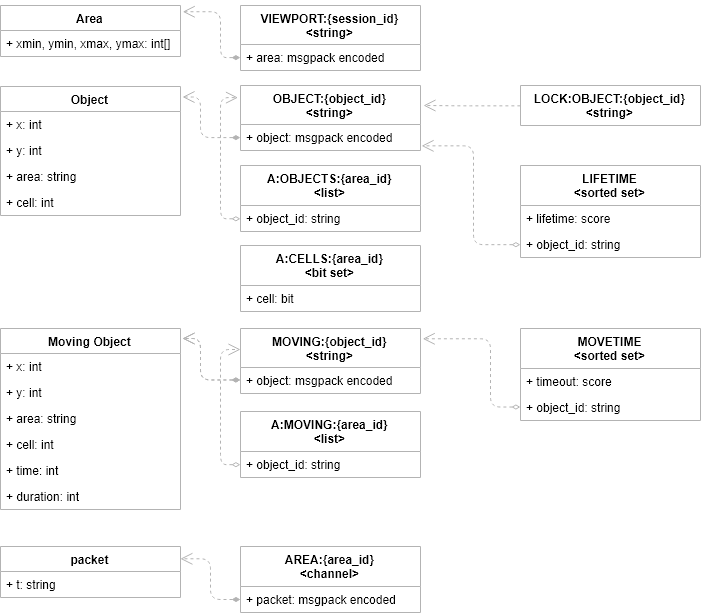
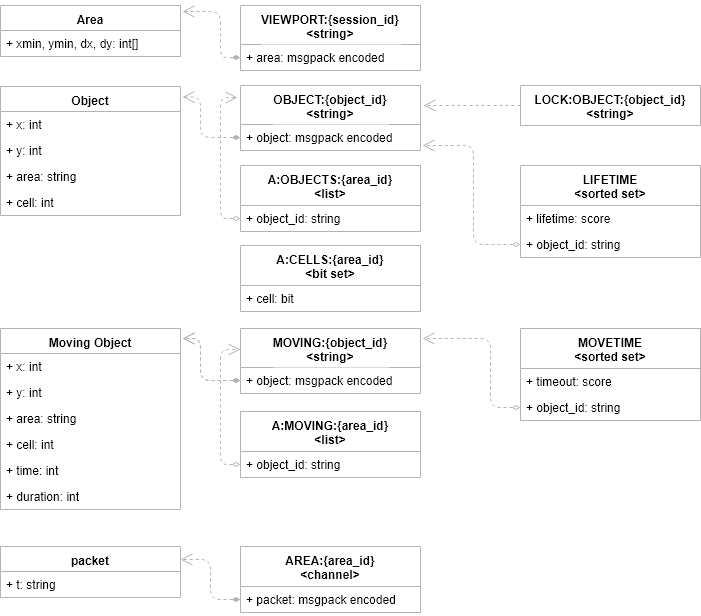
Updated redis data structure to use area width and height.

diff --git a/README.md b/README.md
@@ -44,9 +44,9 @@ seconds and removed once the object lifetime expires.
 
 Area meta information.
 
-| Field Name               | Field Type  | Notes                                                    |
-| ------------------------ | ----------- | -------------------------------------------------------- |
-| [xmin, ymin, xmax, ymax] | list of int | The area corner coordinates (left top and right bottom). |
+| Field Name           | Field Type  | Notes                                                        |
+| -------------------- | ----------- | ------------------------------------------------------------ |
+| [xmin, ymin, dx, dy] | list of int | The area corner coordinate (left, top) and size (width, height). |
 
 Object meta information.
 
